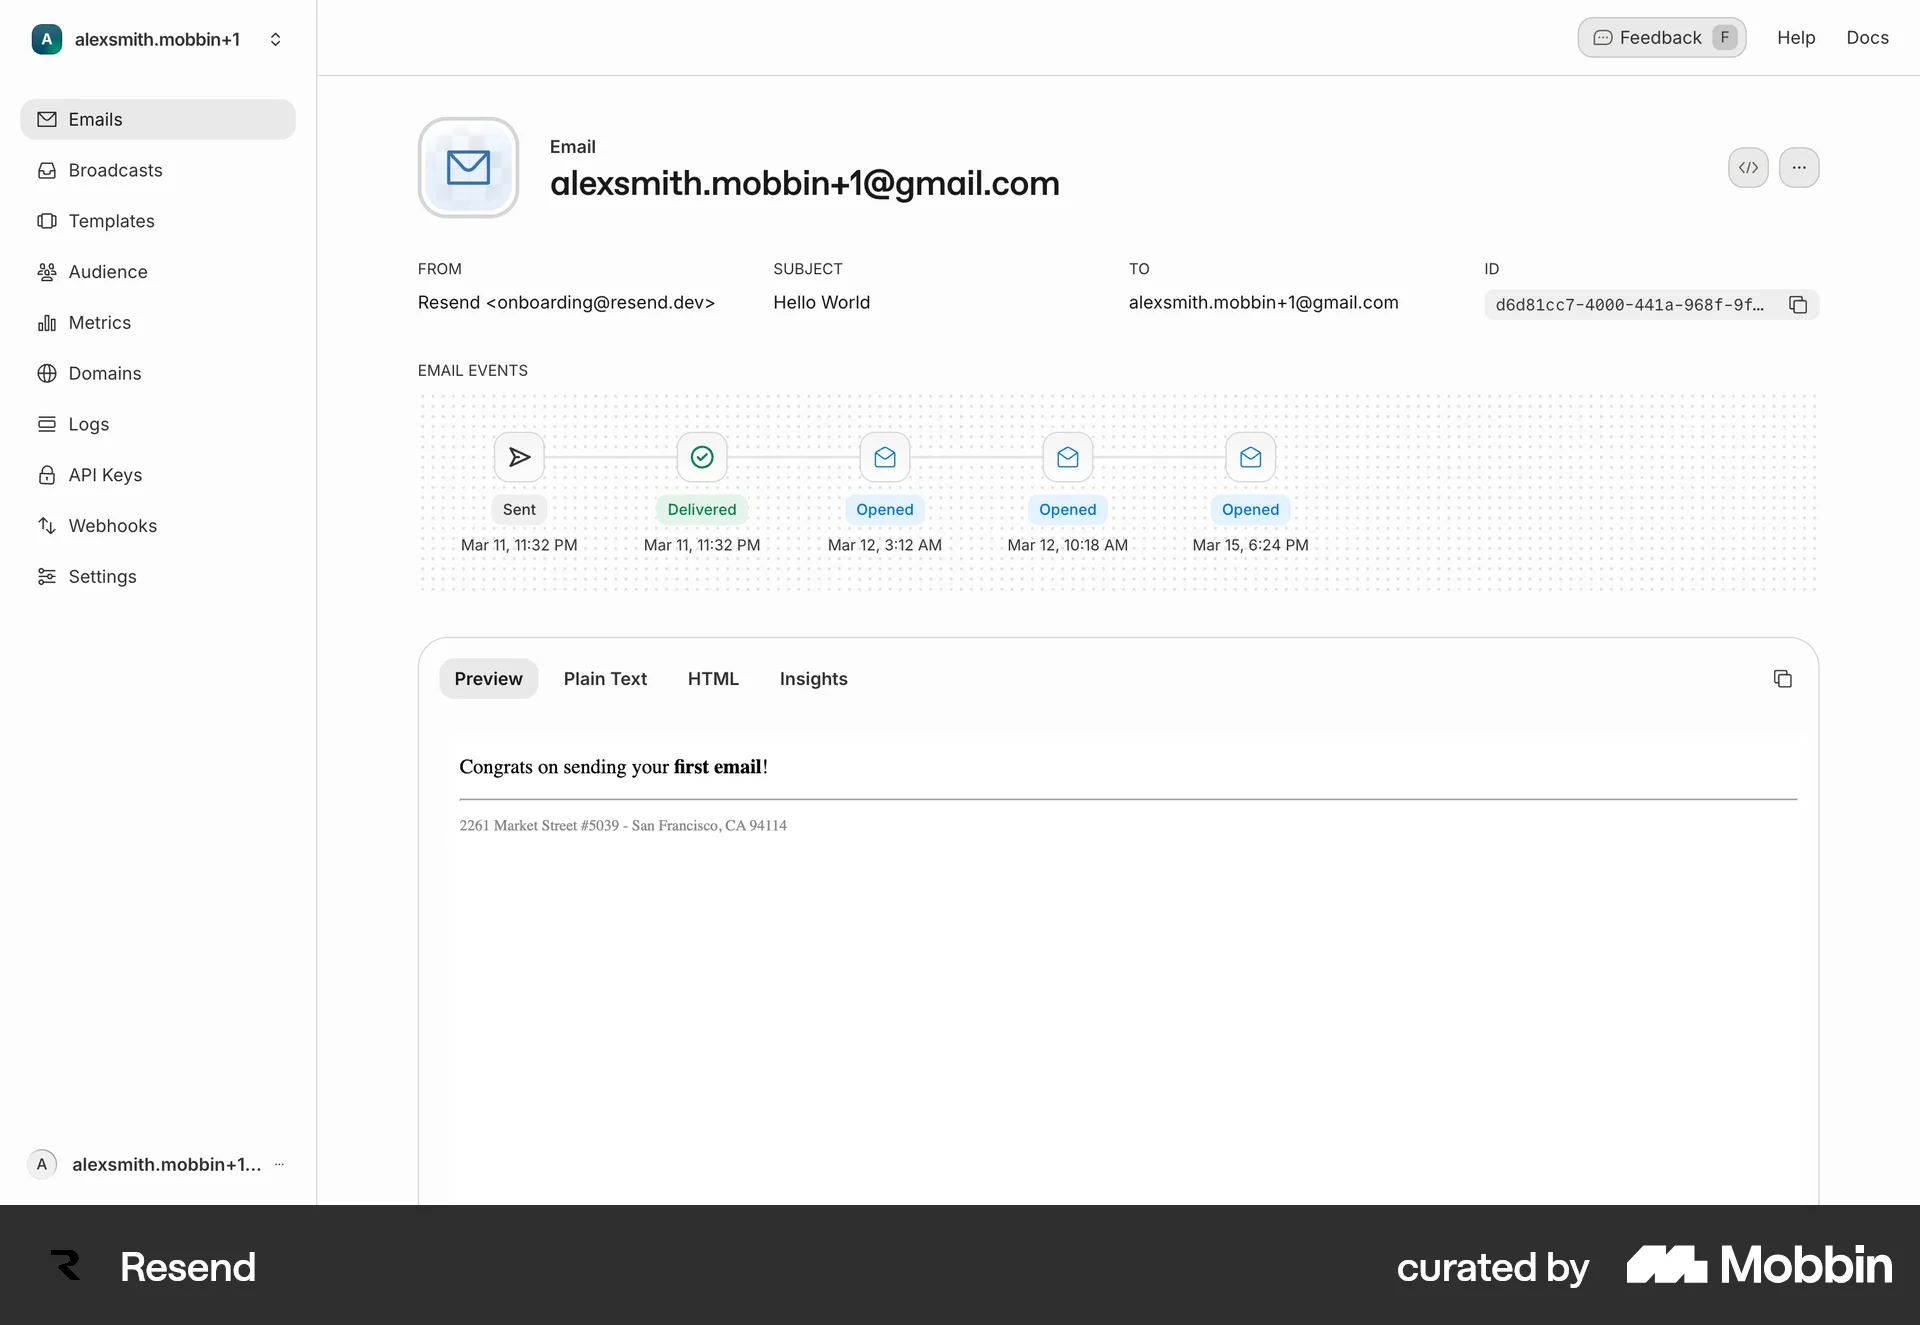
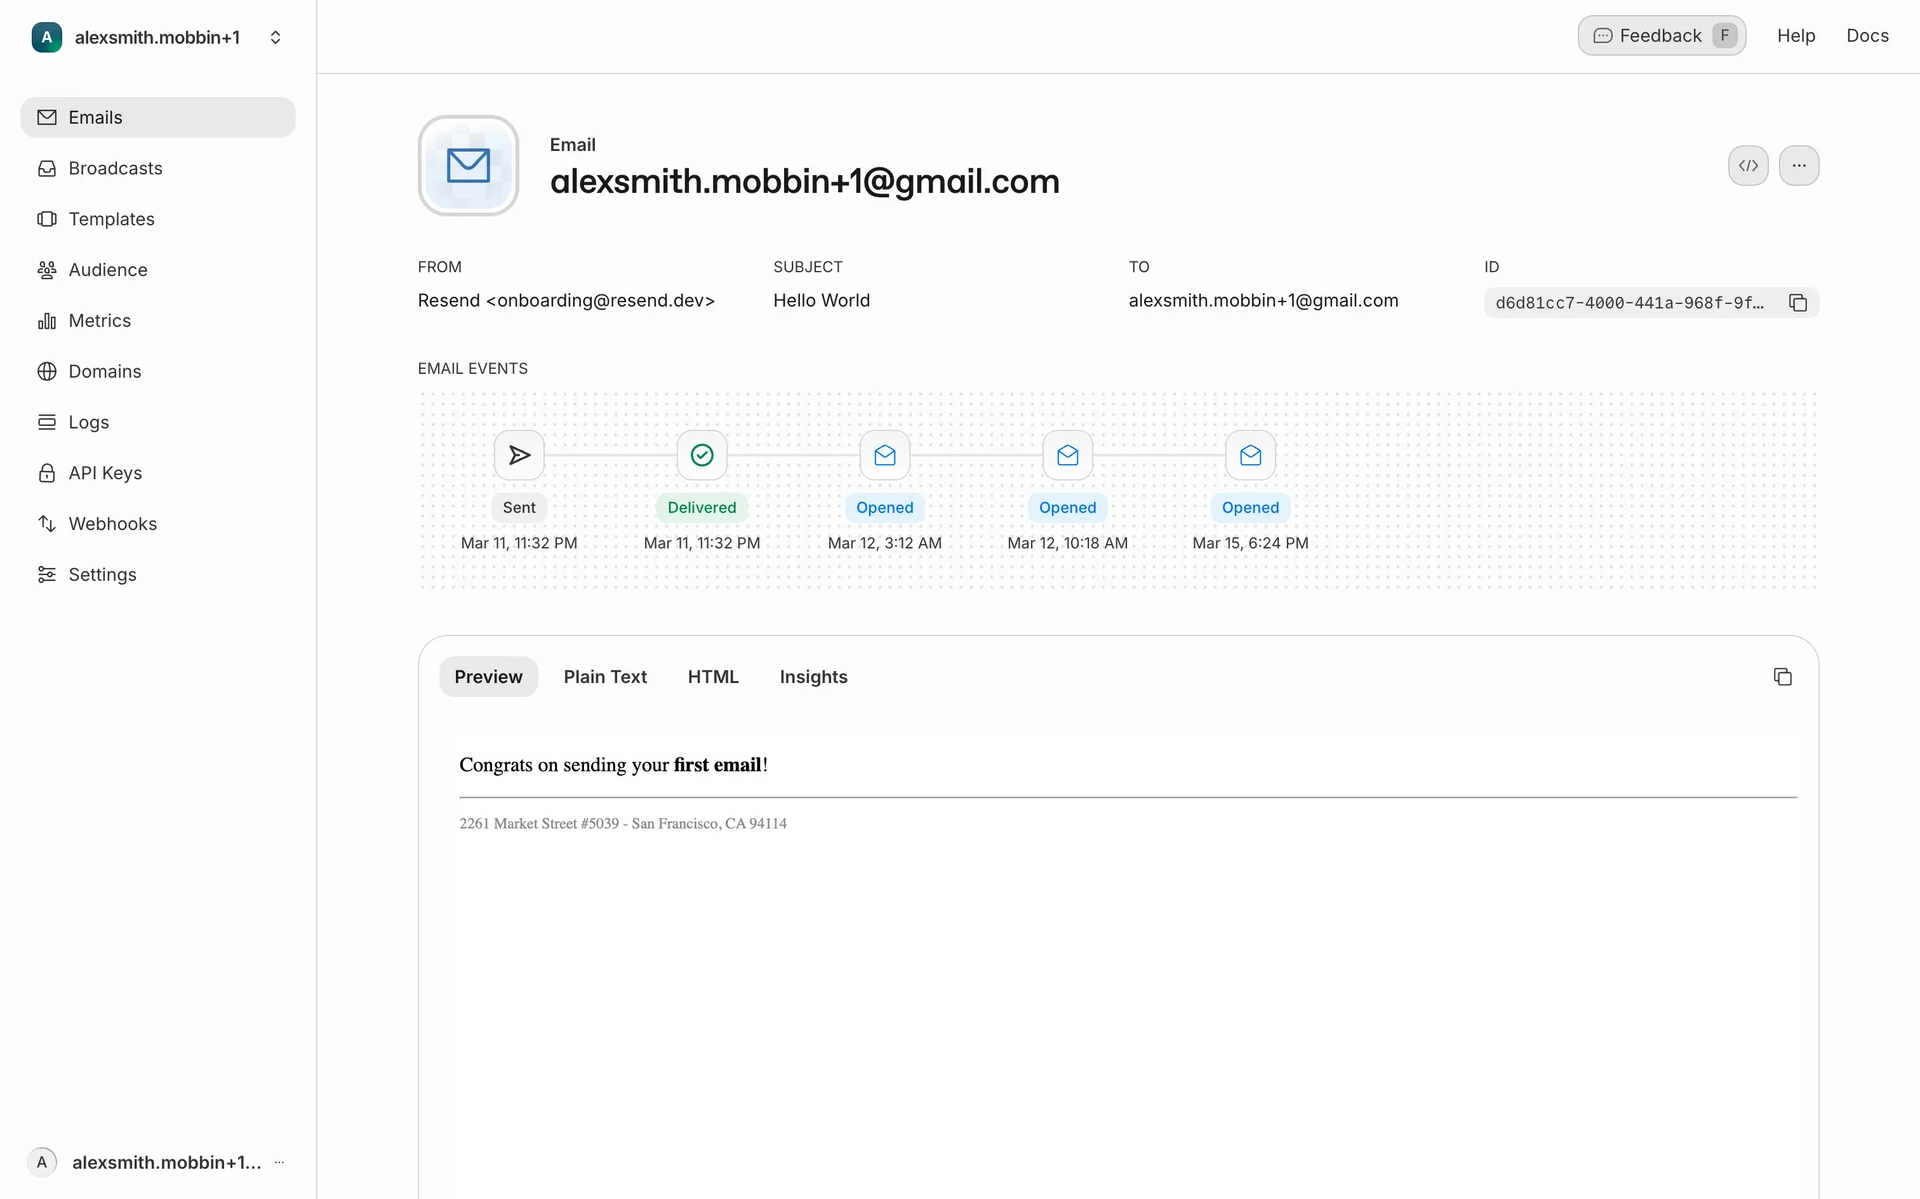
Replace sample screens with watermark-free crops
The public/sample/resend screens still carried the "curated by Mobbin"
footer bar; the de-watermarked crops were sitting in samples/resend.
Copy the clean versions into public (index-preserving: ...N.png →
screen-N.png) so both the thumbnails and the lightbox show them. Screen
numbering is unchanged, so the sample analysis still lines up.

Bump the thumbnail next/image ratio hint 300×200 → 1920×1200 to match
the cropped aspect ratio (~1.6:1) and avoid layout shift on load.

diff --git a/components/sample-screens.tsx b/components/sample-screens.tsx
@@ -28,8 +28,8 @@ export function SampleScreens() {
               <Image
                 src={`/sample/resend/screen-${i}.png`}
                 alt={`Screen ${i}`}
-                width={300}
-                height={200}
+                width={1920}
+                height={1200}
                 className="h-auto w-full"
               />
             </button>
